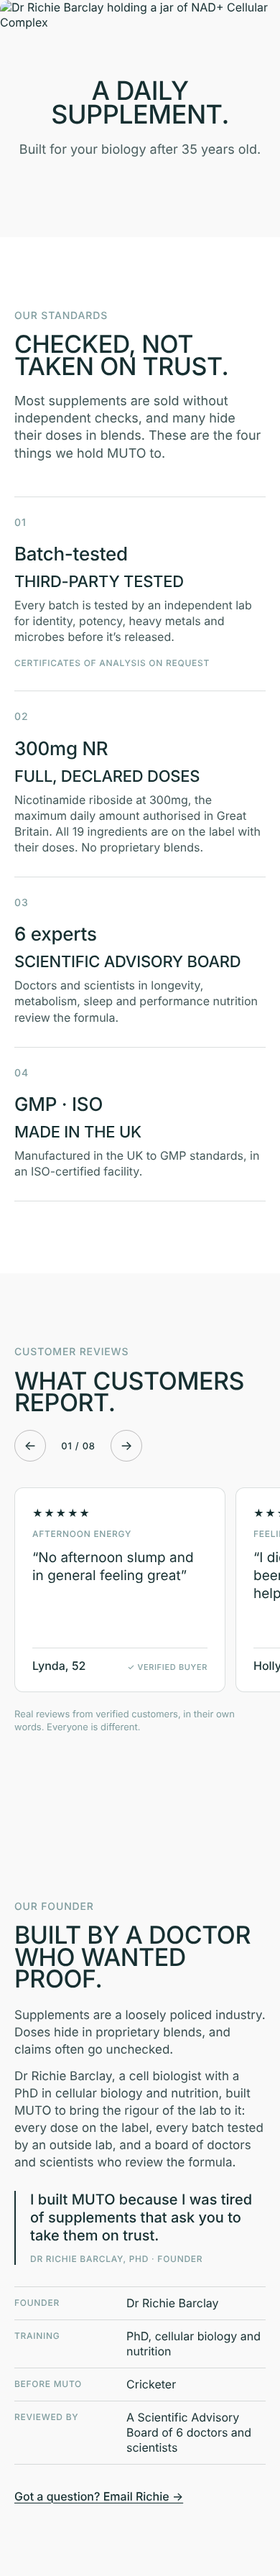
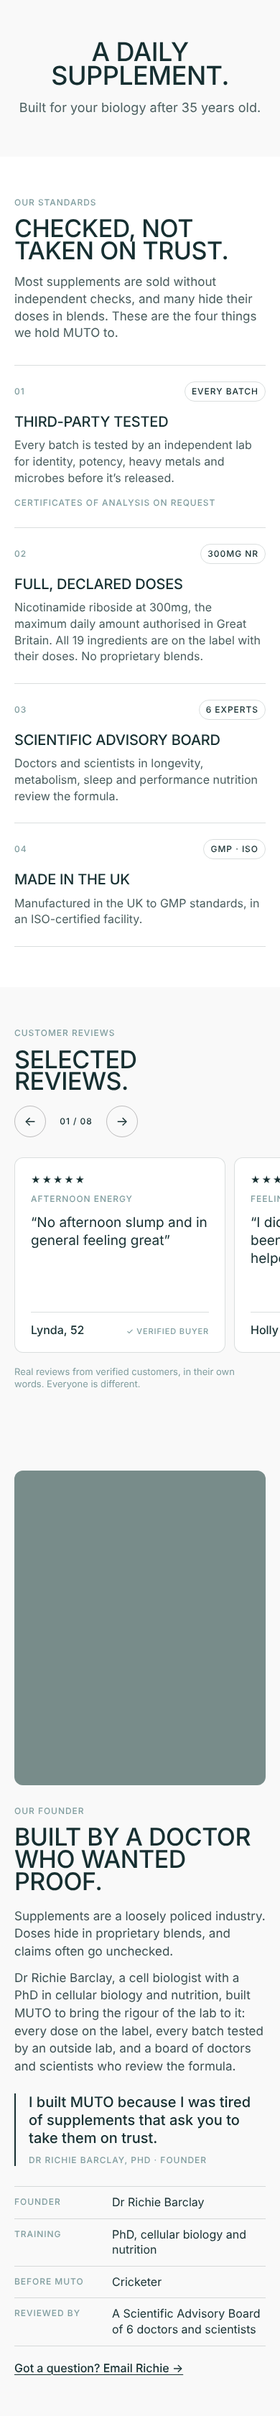
Trust bands: fix collapsed spacing on live, founder photo frame, tighter gaps
muto-crea.css is linked again by later sections, so its zero-specificity reset
was overriding these bands' margins and padding; every rule now starts with
'html .mc'. Founder photo gets a positioned 4:5 frame (muto-image's slot is
absolute). Band padding 56/80px. Standards: number + small tag, one title.

Claude-Session: https://claude.ai/code/session_01VYMABjkorQn2QmgJS9ckGR

diff --git a/shopify/pdp-trust/theme/assets/muto-crea-trust.css b/shopify/pdp-trust/theme/assets/muto-crea-trust.css
@@ -1,92 +1,109 @@
 /* MUTO — trust bands for the NAD+ product page: statement, standards,
-   rotating reviews and founder. Built on muto-crea.css (load that first):
-   same fonts, inks and spacing model. The clinical register comes from
-   hairline rules, small uppercase labels and numbered items, not from a new
-   palette or typeface: Neue Haas Grotesk (the page's --mc-font) throughout,
-   labels and figures included, so no mono face appears in these bands. */
+   rotating reviews and founder. Built on muto-crea.css: same font (Neue Haas
+   Grotesk, --mc-font), inks and spacing model. The clinical register comes
+   from hairline rules, small uppercase labels and numbered items.
 
-.mc--stm,.mc--std,.mc--rev,.mc--fdr,
-.mc--stm .mc__mono,.mc--std .mc__mono,.mc--rev .mc__mono,.mc--fdr .mc__mono,
-.mc--rev .mc__rev-btn{font-family:var(--mc-font)}
-.mc--stm .mc__mono,.mc--std .mc__mono,.mc--rev .mc__mono,.mc--fdr .mc__mono{letter-spacing:.06em}
+   SPECIFICITY: every rule starts with `html .mc`. Sections further down the
+   page link muto-crea.css again, after this file, and its zero-specificity
+   reset (`.mc :where(p,h2,li…){margin:0;padding:0}`, `.mc{background}`) is
+   (0,1,0) — the same weight as a bare `.mc__x` rule — so a later copy of it
+   would win and strip every margin and padding here. `html .mc .mc__x` is
+   (0,2,1) and holds whatever order the stylesheets arrive in. */
 
-.mc--stm,.mc--std,.mc--rev,.mc--fdr{background:var(--mc-ground)}
-.mc--std{background:#fff}
+html .mc--stm,html .mc--std,html .mc--rev,html .mc--fdr{font-family:var(--mc-font);background:var(--mc-ground)}
+html .mc--std{background:#fff}
+html .mc .mc__mono{font-family:var(--mc-font);font-weight:500;font-size:12px;letter-spacing:.08em;text-transform:uppercase;line-height:1.3}
 
-.mc__trust-link{display:inline-flex;gap:.4em;margin-top:18px;font-weight:500;color:var(--mc-ink);text-decoration:underline;text-underline-offset:3px;text-decoration-thickness:1px}
-.mc__trust-link:hover{opacity:.75}
-.mc__trust-link:focus-visible,.mc__rev-btn:focus-visible,.mc__rev-rail:focus-visible{outline:2px solid var(--mc-ink);outline-offset:3px}
+html .mc .mc__trust-link{display:inline-flex;gap:.4em;margin-top:20px;font-weight:500;font-size:16px;color:var(--mc-ink);text-decoration:underline;text-underline-offset:3px;text-decoration-thickness:1px}
+html .mc .mc__trust-link:hover{opacity:.75}
+html .mc .mc__trust-link:focus-visible,html .mc .mc__rev-btn:focus-visible,html .mc .mc__rev-rail:focus-visible{outline:2px solid var(--mc-ink);outline-offset:3px}
+
+/* Shared band spacing: 56px on phones, 80px from 990px. Neighbouring theme
+   bands bring their own padding, so this is deliberately tighter than theirs. */
+html .mc .mc__stm,html .mc .mc__std,html .mc .mc__rev,html .mc .mc__fdr{
+  padding-top:calc(56px*var(--mc-spt,1));padding-bottom:calc(56px*var(--mc-spb,1))}
+@media (min-width:990px){
+  html .mc .mc__stm,html .mc .mc__std,html .mc .mc__rev,html .mc .mc__fdr{
+    padding-top:calc(80px*var(--mc-spt,1));padding-bottom:calc(80px*var(--mc-spb,1))}
+}
+
+/* Small label above each band heading. */
+html .mc .mc__std-eyebrow,html .mc .mc__rev-eyebrow,html .mc .mc__fdr-eyebrow,html .mc .mc__stm-label{margin:0 0 14px;color:var(--mc-muted)}
 
 /* --- Statement ----------------------------------------------------------- */
-.mc__stm{padding:calc(110px*var(--mc-spt,1)) 0 calc(110px*var(--mc-spb,1));text-align:center;max-width:980px;margin:0 auto}
-.mc__stm-label{margin-bottom:22px;color:var(--mc-muted)}
-.mc .mc__stm-head{font-size:clamp(36px,5.2vw,76px)}
-.mc__stm-sub{margin-top:22px;font-size:clamp(18px,1.67vw,24px);line-height:1.25;color:rgba(22,47,49,.78)}
+html .mc .mc__stm{text-align:center;max-width:980px;margin:0 auto}
+html .mc .mc__stm-head{font-size:clamp(36px,5.2vw,76px)}
+html .mc .mc__stm-sub{margin:18px 0 0;font-size:clamp(18px,1.67vw,24px);line-height:1.25;color:rgba(22,47,49,.78)}
 
 /* --- Standards ----------------------------------------------------------- */
-.mc__std{padding:calc(100px*var(--mc-spt,1)) 0 calc(100px*var(--mc-spb,1))}
-.mc__std-top{display:grid;gap:20px;margin-bottom:48px}
-.mc__std-eyebrow,.mc__rev-eyebrow,.mc__fdr-eyebrow{margin-bottom:16px;color:var(--mc-muted)}
-.mc__std-lede{font-size:18px;line-height:1.35;max-width:440px;color:rgba(22,47,49,.82)}
-.mc__std-list{display:grid;grid-template-columns:1fr;border-top:1px solid var(--mc-hair)}
-.mc__std-item{padding:26px 0 30px;border-bottom:1px solid var(--mc-hair);display:flex;flex-direction:column}
-.mc__std-num{color:var(--mc-muted);margin-bottom:22px}
-.mc__std-stat{font-family:var(--mc-font);font-weight:500;font-size:clamp(26px,2.5vw,36px);letter-spacing:-.01em;line-height:1;margin-bottom:14px}
-.mc .mc__std-title{margin-bottom:10px}
-.mc__std-text{font-size:16px;line-height:1.38;color:rgba(22,47,49,.82)}
-.mc__std-note{margin-top:18px;font-size:12px;color:var(--mc-muted)}
-.mc__std-foot{margin-top:24px;font-size:13px;color:var(--mc-muted)}
+html .mc .mc__std-top{display:grid;gap:16px;margin:0 0 32px}
+html .mc .mc__std-lede{margin:0;font-size:17px;line-height:1.4;max-width:420px;color:rgba(22,47,49,.8)}
+html .mc .mc__std-list{display:grid;grid-template-columns:1fr;margin:0;padding:0;list-style:none;border-top:1px solid var(--mc-hair)}
+html .mc .mc__std-item{display:flex;flex-direction:column;margin:0;padding:22px 0 26px;border-bottom:1px solid var(--mc-hair)}
+html .mc .mc__std-meta{display:flex;align-items:center;justify-content:space-between;gap:12px;margin:0 0 18px}
+html .mc .mc__std-num{color:var(--mc-muted)}
+html .mc .mc__std-stat{display:inline-block;padding:5px 9px;border:1px solid var(--mc-hair);border-radius:999px;color:var(--mc-ink);white-space:nowrap}
+html .mc .mc__std-title{margin:0 0 10px;font-size:clamp(20px,1.67vw,24px);line-height:1.08}
+html .mc .mc__std-text{margin:0;font-size:16px;line-height:1.42;color:rgba(22,47,49,.8)}
+html .mc .mc__std-text > * + *{margin-top:10px}
+html .mc .mc__std-note{margin:16px 0 0;color:var(--mc-muted)}
+html .mc .mc__std-foot{margin:20px 0 0;font-size:13px;color:var(--mc-muted)}
 @media (min-width:750px){
-  .mc__std-top{grid-template-columns:1fr auto;align-items:end}
-  .mc__std-list{grid-template-columns:repeat(2,1fr);column-gap:32px}
+  html .mc .mc__std-top{grid-template-columns:minmax(0,1fr) minmax(0,420px);align-items:end;gap:40px;margin-bottom:40px}
+  html .mc .mc__std-list{grid-template-columns:repeat(2,minmax(0,1fr));column-gap:40px}
 }
 @media (min-width:1100px){
-  .mc__std-list{grid-template-columns:repeat(4,1fr);border-top:0}
-  .mc__std-item{padding:28px 28px 34px;border-bottom:0;border-left:1px solid var(--mc-hair)}
-  .mc__std-item:first-child{border-left:0;padding-left:0}
-  .mc__std-list{border-top:1px solid var(--mc-hair);border-bottom:1px solid var(--mc-hair)}
+  html .mc .mc__std-list{grid-template-columns:repeat(4,minmax(0,1fr));column-gap:0;border-bottom:1px solid var(--mc-hair)}
+  html .mc .mc__std-item{padding:26px 28px 30px;border-bottom:0;border-left:1px solid var(--mc-hair)}
+  html .mc .mc__std-item:first-child{padding-left:0;border-left:0}
+  html .mc .mc__std-item:last-child{padding-right:0}
 }
 
 /* --- Rotating reviews ---------------------------------------------------- */
-.mc__rev{padding:calc(100px*var(--mc-spt,1)) 0 calc(100px*var(--mc-spb,1))}
-.mc__rev-top{display:grid;gap:22px;margin-bottom:36px}
-.mc__rev-side{display:flex;flex-direction:column;gap:14px}
-.mc__rev-summary{font-size:16px}
-.mc__rev-stars{color:var(--mc-ink);letter-spacing:.12em;font-size:14px}
-.mc__rev-nav{display:flex;align-items:center;gap:14px}
-.mc__rev-btn{appearance:none;-webkit-appearance:none;width:44px;height:44px;border-radius:50%;border:1px solid var(--mc-rule);background:transparent;color:var(--mc-ink);font-size:18px;line-height:1;cursor:pointer;transition:background var(--mc-dur) var(--mc-ease)}
-.mc__rev-btn:hover{background:var(--mc-sage)}
-.mc__rev-count{font-size:13px;min-width:62px;text-align:center}
-.mc__rev-rail{display:grid;grid-auto-flow:column;grid-auto-columns:84%;column-gap:14px;overflow-x:auto;scroll-snap-type:x mandatory;margin:0 calc(-1*var(--mc-gutter));padding:0 var(--mc-gutter);scroll-padding:0 var(--mc-gutter)}
-.mc__rev-card{scroll-snap-align:start;display:flex;flex-direction:column;gap:12px;min-height:280px;padding:26px 24px;background:#fff;border:1px solid var(--mc-hair);border-radius:12px}
-.mc__rev-topic{font-size:12px;color:var(--mc-muted)}
-.mc__rev-quote{font-size:19px;line-height:1.32;flex:1}
-.mc__rev-who{display:flex;flex-wrap:wrap;justify-content:space-between;align-items:baseline;gap:6px 12px;padding-top:14px;border-top:1px solid var(--mc-hair)}
-.mc__rev-name{font-weight:500}
-.mc__rev-ver{font-size:11px;color:var(--mc-muted)}
-.mc__rev-foot{margin-top:22px;font-size:13px;color:var(--mc-muted)}
+html .mc .mc__rev-top{display:grid;gap:18px;margin:0 0 28px}
+html .mc .mc__rev-side{display:flex;flex-direction:column;gap:12px}
+html .mc .mc__rev-summary{margin:0;font-size:16px}
+html .mc .mc__rev-stars{margin:0;color:var(--mc-ink);letter-spacing:.14em;font-size:13px;line-height:1}
+html .mc .mc__rev-nav{display:flex;align-items:center;gap:12px}
+html .mc .mc__rev-nav[hidden]{display:none}
+html .mc .mc__rev-btn{appearance:none;-webkit-appearance:none;display:inline-flex;align-items:center;justify-content:center;width:44px;height:44px;padding:0;border-radius:50%;border:1px solid var(--mc-rule);background:transparent;color:var(--mc-ink);font-family:var(--mc-font);font-size:18px;line-height:1;cursor:pointer;transition:background var(--mc-dur) var(--mc-ease)}
+html .mc .mc__rev-btn:hover{background:var(--mc-sage)}
+html .mc .mc__rev-count{margin:0;min-width:60px;text-align:center;color:var(--mc-ink)}
+html .mc .mc__rev-rail{display:grid;grid-auto-flow:column;grid-auto-columns:84%;column-gap:12px;overflow-x:auto;scroll-snap-type:x mandatory;list-style:none;margin:0 calc(-1*var(--mc-gutter));padding:0 var(--mc-gutter);scroll-padding:0 var(--mc-gutter)}
+html .mc .mc__rev-card{scroll-snap-align:start;display:flex;flex-direction:column;gap:12px;margin:0;padding:24px 22px 20px;min-height:250px;background:#fff;border:1px solid var(--mc-hair);border-radius:12px}
+html .mc .mc__rev-topic{margin:0;color:var(--mc-muted)}
+html .mc .mc__rev-quote{flex:1;margin:0;padding:0;font-size:19px;line-height:1.32}
+html .mc .mc__rev-who{display:flex;flex-wrap:wrap;justify-content:space-between;align-items:baseline;gap:6px 12px;margin:0;padding-top:14px;border-top:1px solid var(--mc-hair)}
+html .mc .mc__rev-name{font-weight:500;font-size:16px}
+html .mc .mc__rev-ver{font-size:11px;color:var(--mc-muted)}
+html .mc .mc__rev-foot{margin:18px 0 0;font-size:13px;color:var(--mc-muted)}
 @media (min-width:750px){
-  .mc__rev-top{grid-template-columns:1fr auto;align-items:end}
-  .mc__rev-side{align-items:flex-end}
-  .mc__rev-rail{grid-auto-columns:calc((100% - 28px)/2.2)}
+  html .mc .mc__rev-top{grid-template-columns:minmax(0,1fr) auto;align-items:end}
+  html .mc .mc__rev-side{align-items:flex-end}
+  html .mc .mc__rev-rail{grid-auto-columns:calc((100% - 24px)/2.2)}
 }
 @media (min-width:1100px){
-  .mc__rev-rail{grid-auto-columns:calc((100% - 42px)/3);margin:0;padding:0;scroll-padding:0}
-  .mc__rev-quote{font-size:21px}
+  html .mc .mc__rev-rail{grid-auto-columns:calc((100% - 24px)/3);margin:0;padding:0;scroll-padding:0}
+  html .mc .mc__rev-quote{font-size:21px}
 }
 
 /* --- Founder ------------------------------------------------------------- */
-.mc__fdr{padding:calc(100px*var(--mc-spt,1)) 0 calc(100px*var(--mc-spb,1));display:grid;gap:32px}
-.mc__fdr-media .mh__slot,.mc__fdr-media img{border-radius:12px;overflow:hidden}
-.mc__fdr-caption{margin-top:12px;font-size:12px;color:var(--mc-muted)}
-.mc__fdr-text{margin-top:22px;font-size:17px;line-height:1.42;color:rgba(22,47,49,.86);max-width:560px}
-.mc__fdr-quote{margin-top:28px;padding-left:20px;border-left:2px solid var(--mc-ink);max-width:560px}
-.mc__fdr-quote blockquote{font-size:clamp(20px,1.8vw,26px);line-height:1.25;font-weight:500}
-.mc__fdr-quote figcaption{margin-top:12px;font-size:12px;color:var(--mc-muted)}
-.mc__fdr-facts{margin-top:30px;border-top:1px solid var(--mc-hair);max-width:560px}
-.mc__fdr-fact{display:grid;grid-template-columns:140px 1fr;gap:16px;padding:12px 0;border-bottom:1px solid var(--mc-hair)}
-.mc__fdr-fact dt{font-size:12px;color:var(--mc-muted);padding-top:2px}
-.mc__fdr-fact dd{margin:0;font-size:16px}
+html .mc .mc__fdr{display:grid;gap:28px}
+/* muto-image draws an absolutely positioned slot, so the frame carries the
+   ratio and the positioning context. Without it the photo escapes the column. */
+html .mc .mc__fdr-frame{position:relative;width:100%;aspect-ratio:4/5;overflow:hidden;border-radius:12px;background:var(--mc-sage)}
+html .mc .mc__fdr-frame .mh__img{width:100%;height:100%;object-fit:cover;object-position:var(--mh-pos,50% 50%)}
+html .mc .mc__fdr-caption{margin:10px 0 0;color:var(--mc-muted)}
+html .mc .mc__fdr-text{margin:20px 0 0;font-size:17px;line-height:1.45;color:rgba(22,47,49,.85);max-width:560px}
+html .mc .mc__fdr-text > * + *{margin-top:12px}
+html .mc .mc__fdr-quote{margin:26px 0 0;padding:0 0 0 18px;border-left:2px solid var(--mc-ink);max-width:560px}
+html .mc .mc__fdr-quote blockquote{margin:0;padding:0;font-size:clamp(20px,1.8vw,26px);line-height:1.25;font-weight:500}
+html .mc .mc__fdr-quote figcaption{margin:10px 0 0;color:var(--mc-muted)}
+html .mc .mc__fdr-facts{margin:28px 0 0;padding:0;border-top:1px solid var(--mc-hair);max-width:560px}
+html .mc .mc__fdr-fact{display:grid;grid-template-columns:120px minmax(0,1fr);gap:16px;margin:0;padding:11px 0;border-bottom:1px solid var(--mc-hair)}
+html .mc .mc__fdr-fact dt{margin:0;padding-top:2px;color:var(--mc-muted)}
+html .mc .mc__fdr-fact dd{margin:0;font-size:16px;line-height:1.35}
 @media (min-width:990px){
-  .mc__fdr{grid-template-columns:minmax(0,5fr) minmax(0,6fr);gap:72px;align-items:center}
+  html .mc .mc__fdr{grid-template-columns:minmax(0,5fr) minmax(0,6fr);gap:64px;align-items:center}
+  html .mc .mc__fdr-media{max-width:520px}
 }

diff --git a/shopify/pdp-trust/make_trust.py b/shopify/pdp-trust/make_trust.py
@@ -23,7 +23,7 @@ STATEMENT = {"type": "muto-crea-statement", "settings": {
 
 # --- New: standards ----------------------------------------------------------
 STANDARDS_ITEMS = [
-    ("tested", "Batch-tested", "Third-party tested",
+    ("tested", "Every batch", "Third-party tested",
      "<p>Every batch is tested by an independent lab for identity, potency, heavy metals and microbes before it’s released.</p>",
      # Set CERTS_URL to the page where the certificates are published.
      "View the certificates", "", "Certificates of analysis on request"),
@@ -79,7 +79,7 @@ def reviews():
         order.append(k)
     return {"type": "muto-crea-reviews", "blocks": blocks, "block_order": order, "settings": {
         "eyebrow": "Customer reviews",
-        "heading": "What customers\nreport.",
+        "heading": "Selected\nreviews.",
         "summary": "",  # e.g. "4.8 from 412 reviews": the live REVIEWS.io figure
         "interval": 6, "min_age": 30, "require_age": False,
         "foot": "Real reviews from verified customers, in their own words. Everyone is different.",
@@ -119,6 +119,7 @@ def clinical(d):
     r["heading"] = "Customer\nreports."
     r["note"] = "Filmed by customers, in their own words."
     r["foot"] = "Individual experiences. Everyone is different, and we can’t promise results."
+    S["results"]["settings"]["space_top"] = 70   # sits under the standards band, which brings its own space
 
     b = S["board"]["settings"]
     b["heading"] = "Scientific\nAdvisory Board."

diff --git a/shopify/pdp-trust/README.md b/shopify/pdp-trust/README.md
@@ -19,7 +19,7 @@ All four sections are new names, so nothing on live is overwritten except the te
 | 1 | Buy box | unchanged |
 | 2 | **Our standards**: third-party tested, 300mg NR + declared doses, Scientific Advisory Board, UK made GMP · ISO | new |
 | 3 | Customer videos, 9:16 (existing "results" band) | retitled "Customer reports." |
-| 4 | **Rotating reviews**: up to 20 hand-picked written reviews, name + age, auto-advance every 6s | new |
+| 4 | **Rotating reviews** ("Selected reviews."): up to 20 hand-picked written reviews, name + age, auto-advance every 6s | new |
 | 5 | **Founder**: Dr Richie Barclay, PhD | new |
 | 6 | Scientific Advisory Board | retitled |
 | 7 | **Statement**: "A daily supplement." / "Built for your biology after 35 years old." | new |
